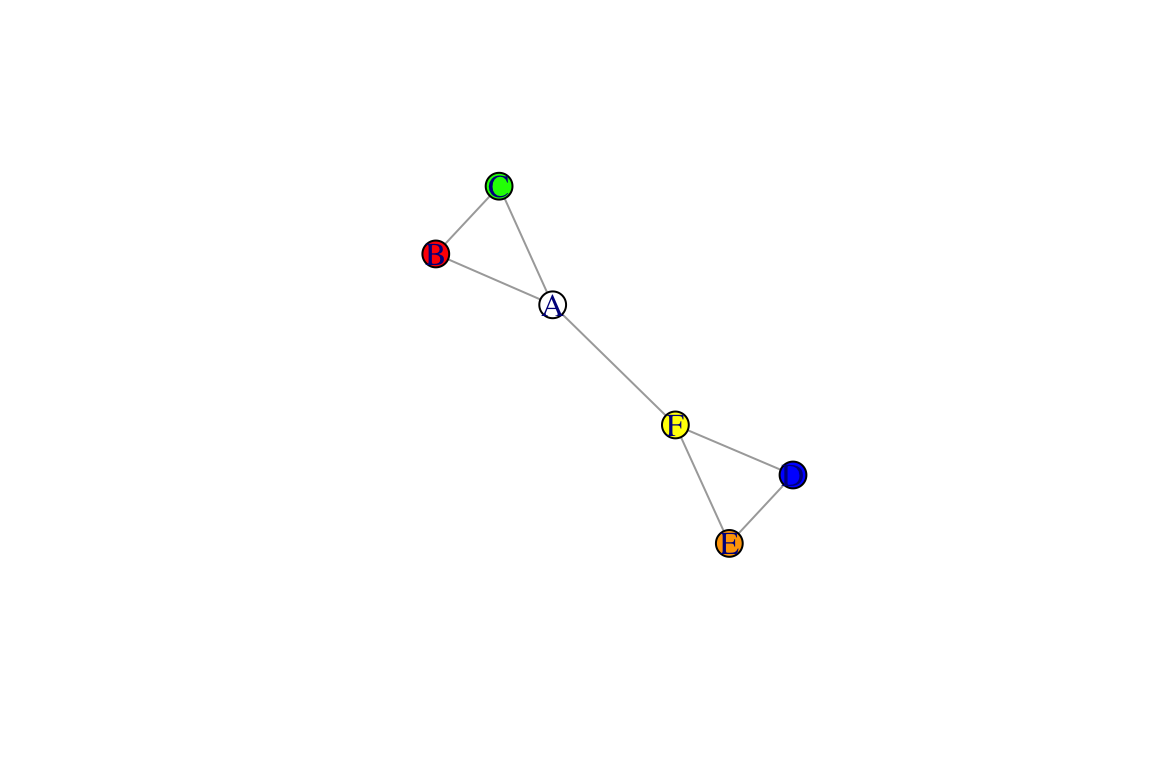
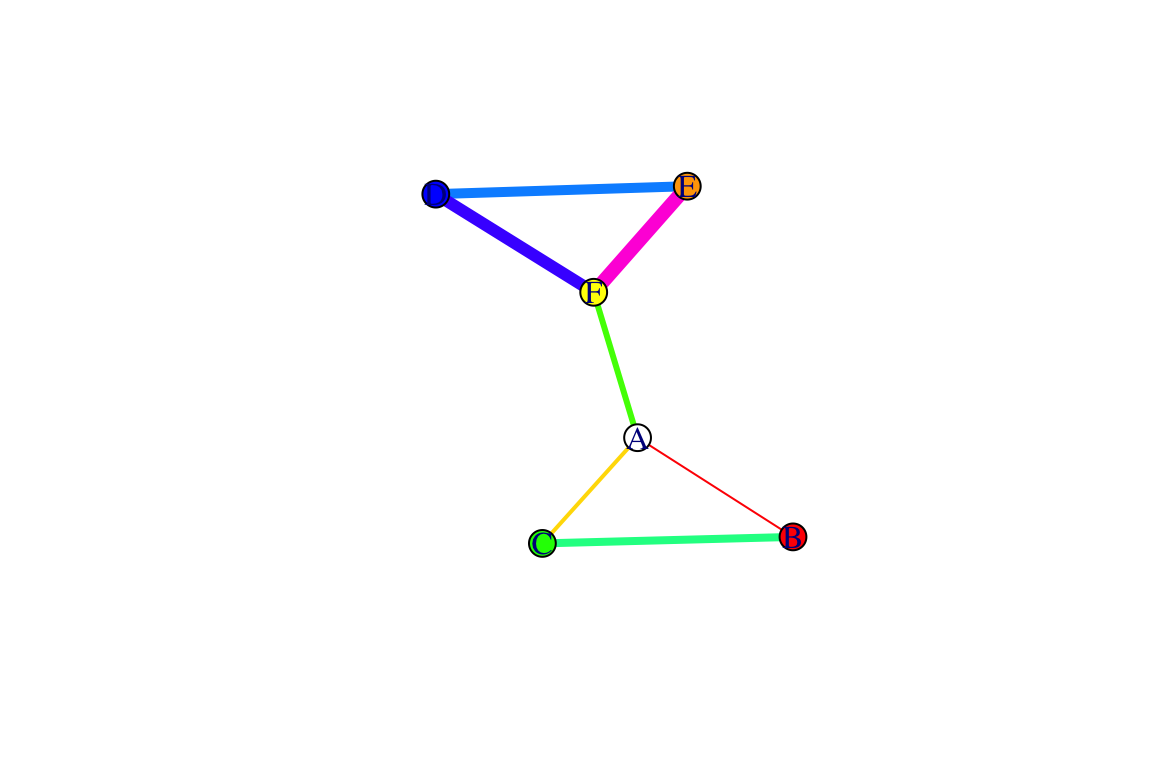
website updates

diff --git a/01_intro.html b/01_intro.html
@@ -228,7 +228,7 @@ $(document).ready(function () {
 <p>Let’s jump right in and try making a network using the <code>igraph</code> package. Here, we will manually make a network using the <code>make_graph()</code> function. You likely won’t use this function that often, but it is very useful for the purpose of demonstration.</p>
 <pre class="r"><code>g=make_graph(~A-B-C-A, D-E-F-D, A-F) 
 plot(g)</code></pre>
-<p><img src="01_intro_files/figure-html/unnamed-chunk-3-1.png" width="576" /></p>
+<p><img src="01_intro_files/figure-html/figure1-1.png" width="576" /></p>
 <p>Congratulations! You made your first network.</p>
 <p>So what did we do in the codes above? We used a <code>make_graph()</code> function to two make two triangles (A-B-C-A and D-E-F-D) and connect two nodes from those two triangles (A-F). We then used the<code>plot()</code> function to make the network figure.</p>
 <p><strong><em>NOTE that your network plot might be oriented differently than this one.</em></strong> Try running this command over and over again. You will notice that the plot will come out slightly differently each time. Think about what changes and what does not change. Does this mean the network changes? We will tackle issues regarding network layout a little bit later.</p>
@@ -237,17 +237,17 @@ plot(g)</code></pre>
 <pre><code>## [1] &quot;igraph&quot;</code></pre>
 <p>You can see that <code>g</code> is an ‘igraph object’. This means that it is now a <em>graph</em> or <em>network</em>. You can see more details about this object by simply:</p>
 <pre class="r"><code>g</code></pre>
-<pre><code>## IGRAPH b624ff7 UN-- 6 7 -- 
+<pre><code>## IGRAPH 53be469 UN-- 6 7 -- 
 ## + attr: name (v/c)
-## + edges from b624ff7 (vertex names):
+## + edges from 53be469 (vertex names):
 ## [1] A--B A--C A--F B--C D--E D--F E--F</code></pre>
 <p>As you can see, simply printing <code>g</code> will display the bare minimum information: “UN” means “<strong>U</strong>ndirected network with <strong>N</strong>ames of vertices”, and the numbers indicate that there are 6 vertices and 7 edges. The second line shows that there is attribute called ‘name’. The characters inside the parentheses (v/c) indicates that it is a ‘vertex attribute’ and that it is a ‘character’ attribute (i.e., rather than numeric or integers). The third and fourth lines show us the 7 edges that exist in this network.</p>
 <p>We can look up the vertices and edges using this special syntax:</p>
 <pre class="r"><code>V(g) #look up vertices </code></pre>
-<pre><code>## + 6/6 vertices, named, from b624ff7:
+<pre><code>## + 6/6 vertices, named, from 53be469:
 ## [1] A B C D E F</code></pre>
 <pre class="r"><code>E(g) #look up edges</code></pre>
-<pre><code>## + 7/7 edges from b624ff7 (vertex names):
+<pre><code>## + 7/7 edges from 53be469 (vertex names):
 ## [1] A--B A--C A--F B--C D--E D--F E--F</code></pre>
 <p>In addition, we can look up vertex attributes. We currently only have one vertex attribute, called ‘name’:</p>
 <pre class="r"><code>V(g)$name</code></pre>
@@ -255,12 +255,12 @@ plot(g)</code></pre>
 <p>We can also create new vertex attributes using this syntax. Certain attribute names can be directly interpreted by igraph for example, the vertex attribute ‘color’ will automatically be interpreted for plotting the network. Let’s try this out:</p>
 <pre class="r"><code> V(g)$color=c(&quot;white&quot;, &quot;red&quot;, &quot;green&quot;, &quot;blue&quot;, &quot;orange&quot;, &quot;yellow&quot;) #a random set of colors 
 plot(g)</code></pre>
-<p><img src="01_intro_files/figure-html/unnamed-chunk-8-1.png" width="576" /></p>
+<p><img src="01_intro_files/figure-html/unnamed-chunk-7-1.png" width="576" /></p>
 <p>We can also add edge attributes. Let’s try adding two edge attributes, <em>width</em> and <em>color</em>.</p>
 <pre class="r"><code>E(g)$width=1:7
 E(g)$color=rainbow(7) #rainbow() function chooses a specified number of colors 
 plot(g)</code></pre>
-<p><img src="01_intro_files/figure-html/unnamed-chunk-9-1.png" width="576" /></p>
+<p><img src="01_intro_files/figure-html/unnamed-chunk-8-1.png" width="576" /></p>
 <p>You can see that now the edges are slightly different widths: these could represent the variations in the strength of relationships between nodes in a <em>weighted network</em>.</p>
 </div>
 </div>
